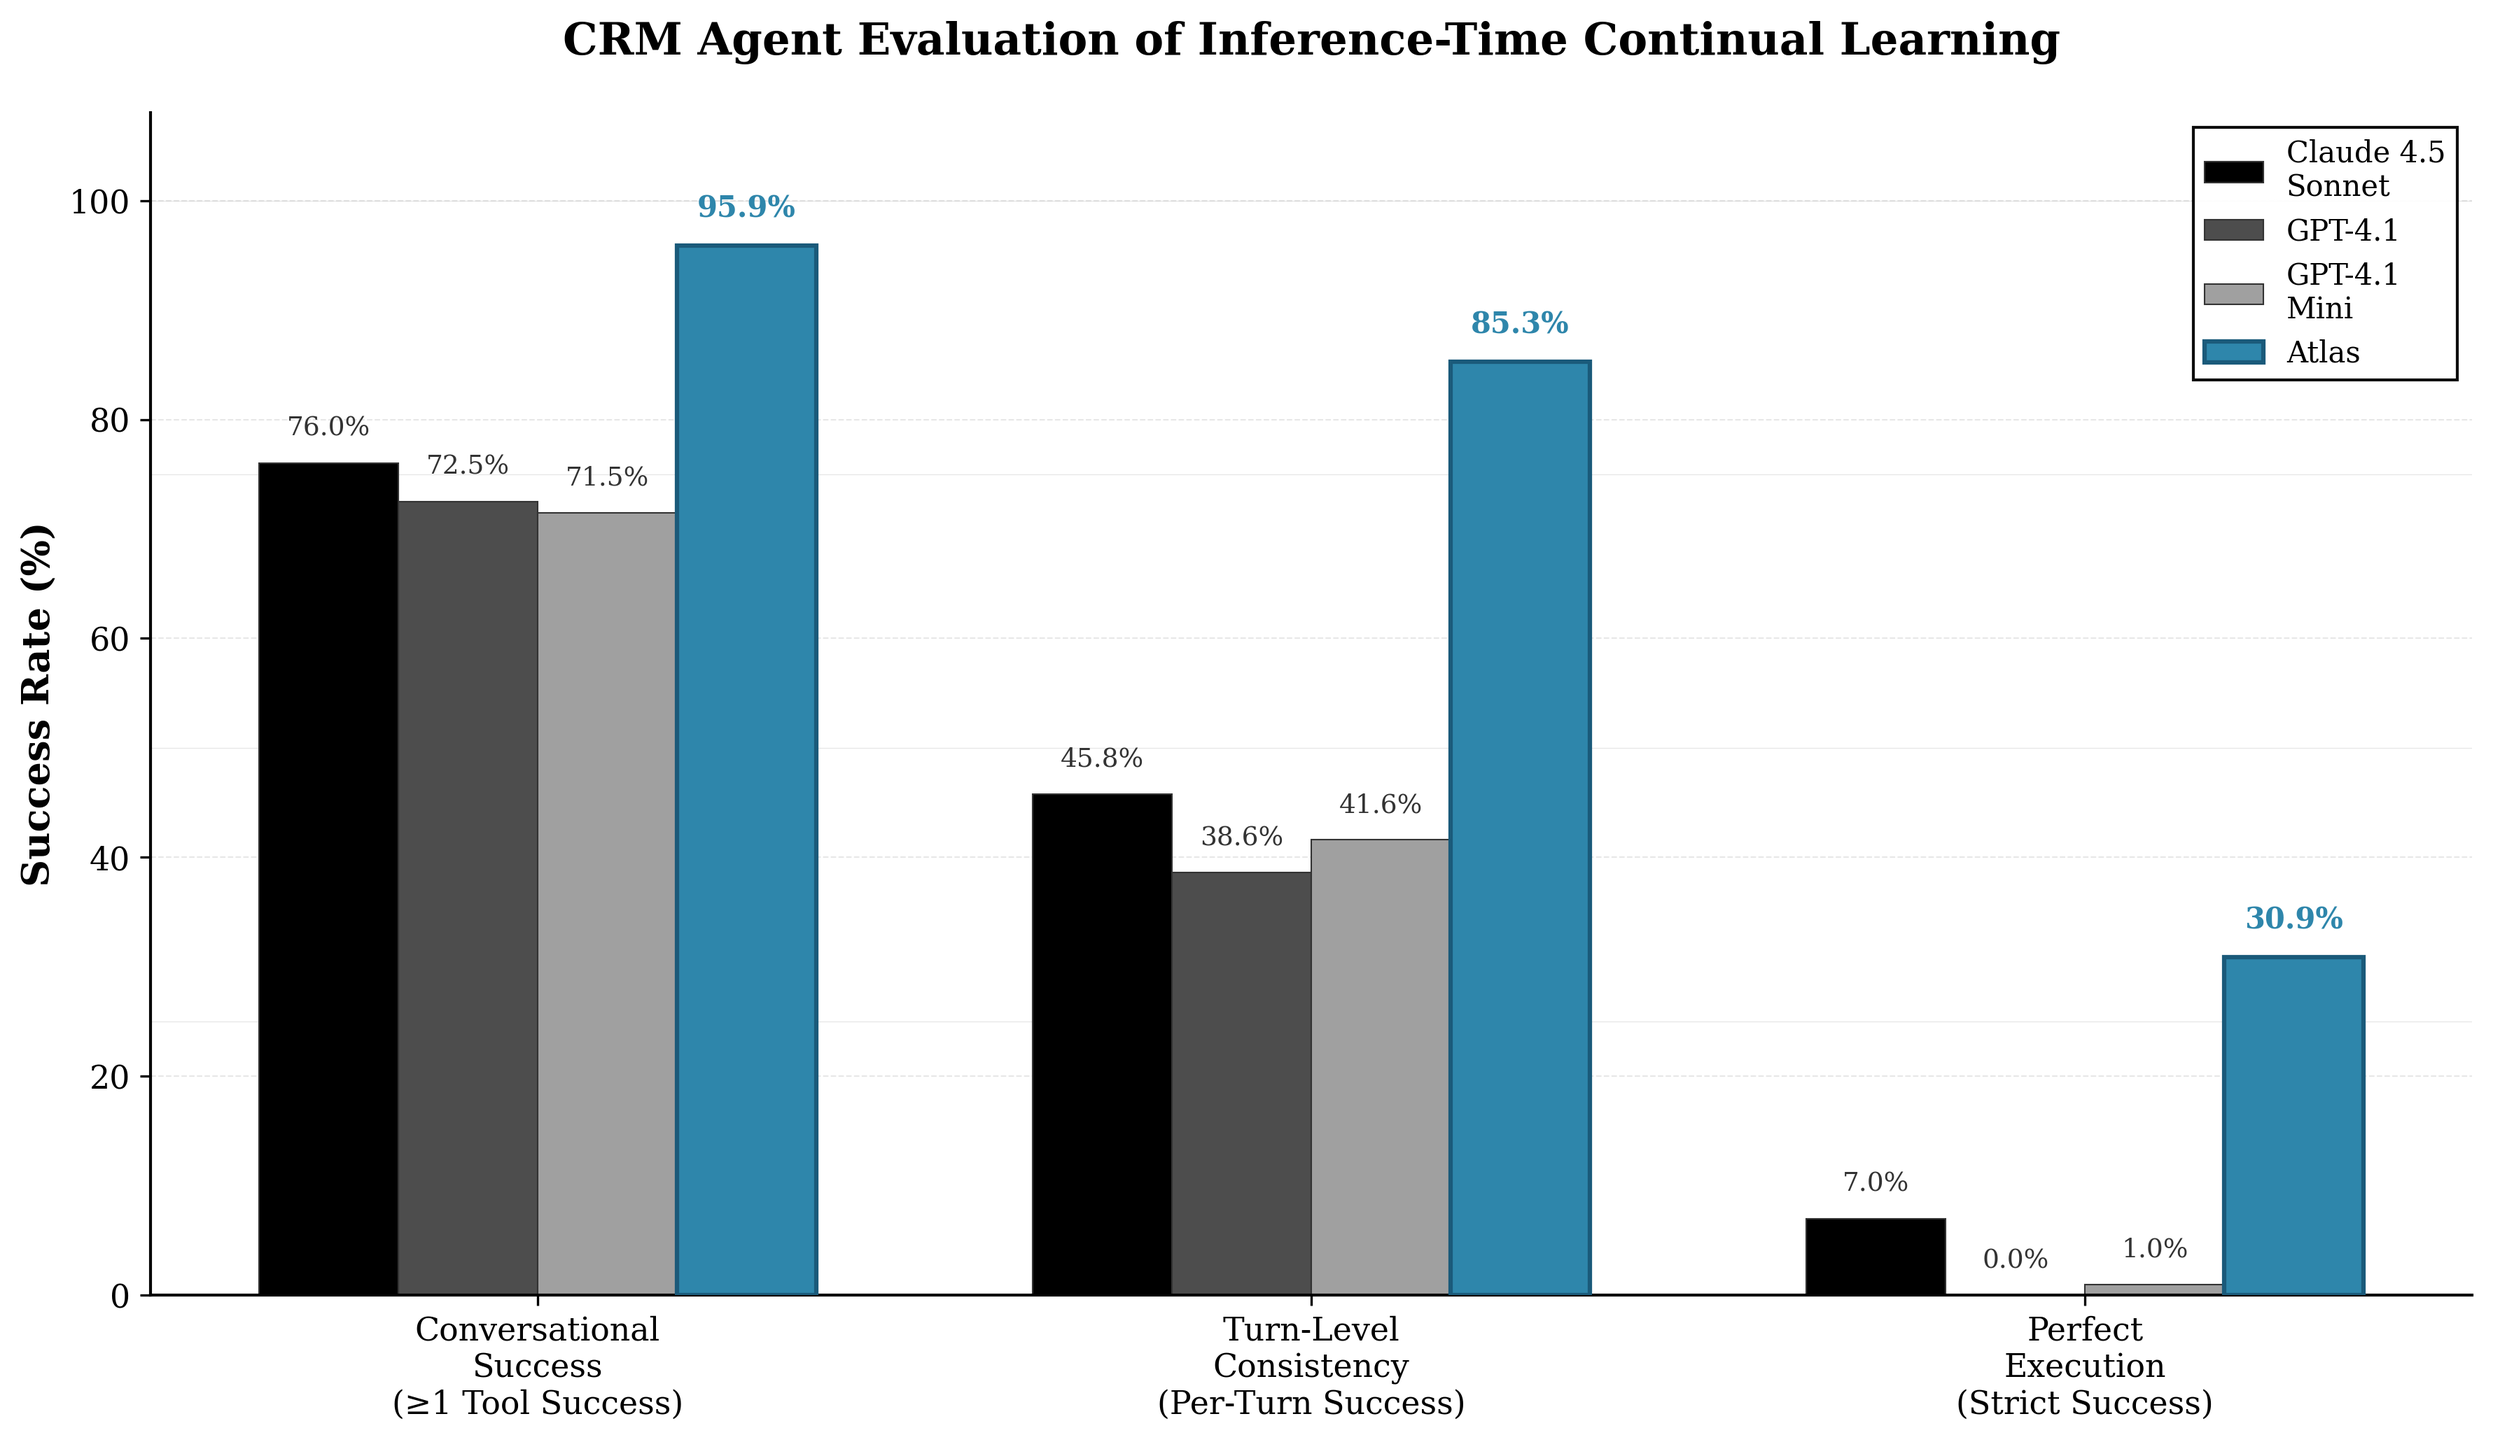
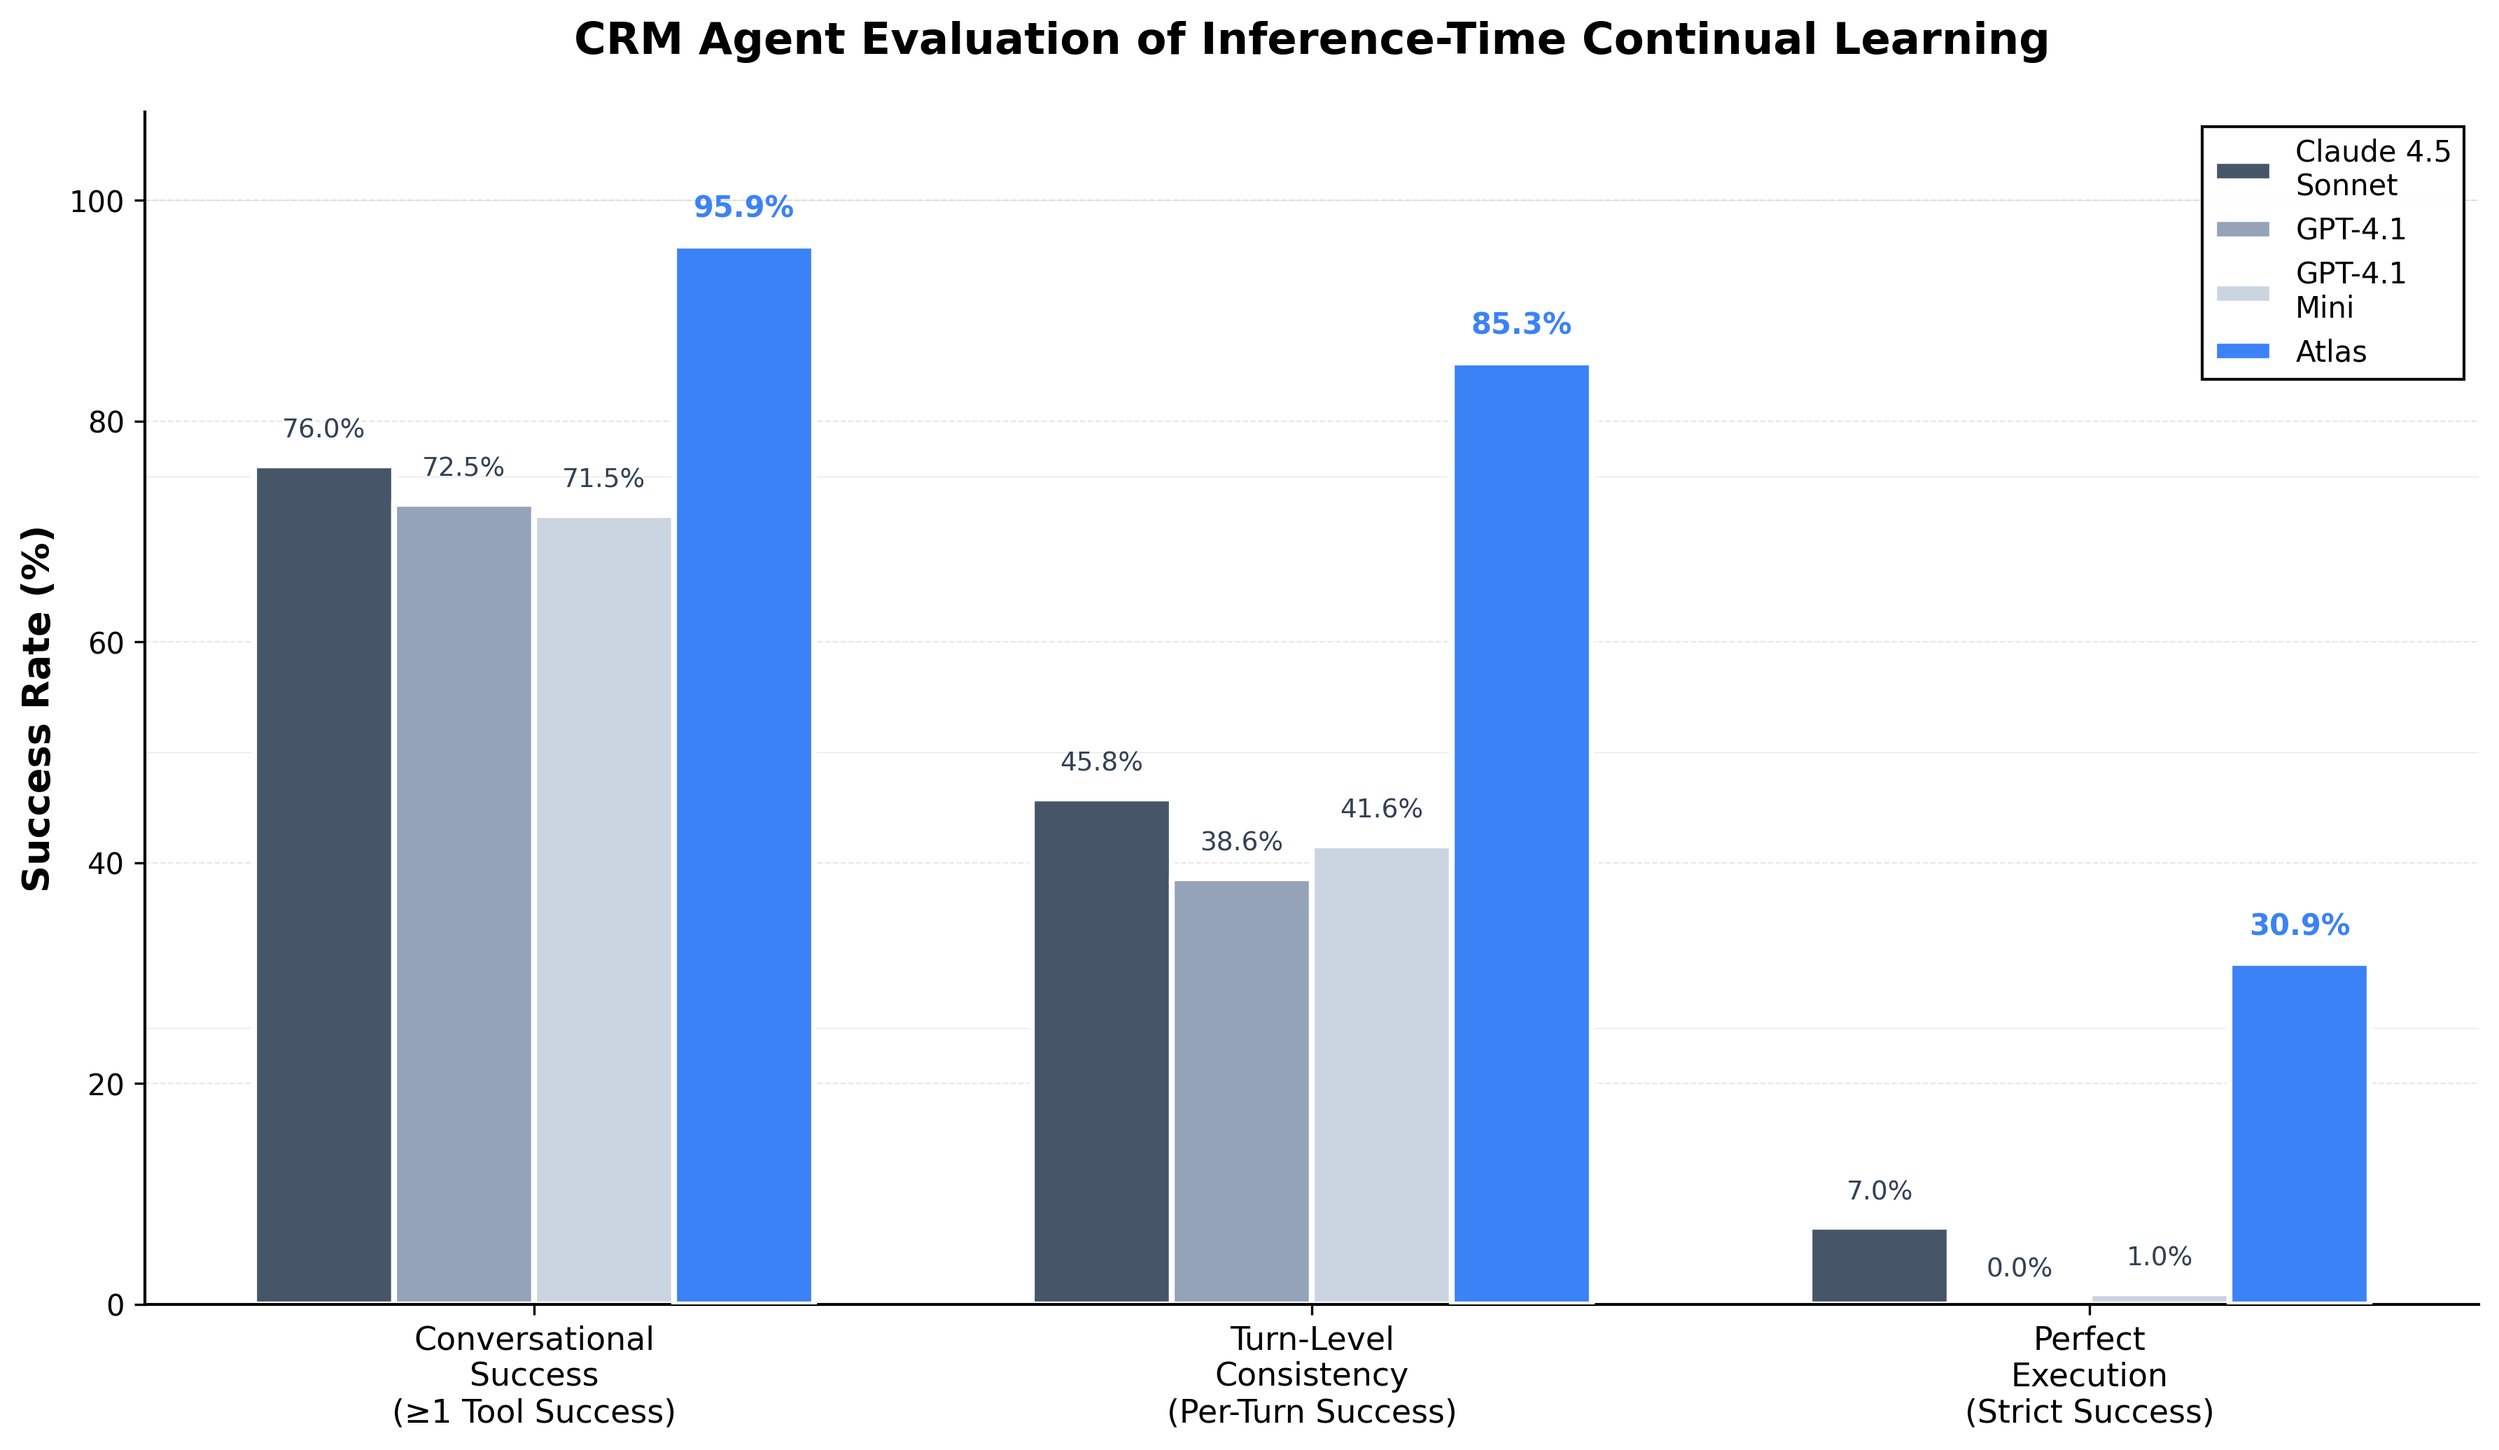
Update visualizations with consistent branding and token efficiency analysis
- Add token efficiency visualization showing cost per strict success comparison
- Update consistency gap bars with tiered gray gradient for baseline differentiation
- Improve visual consistency across all charts (Arc blue for Atlas, gray gradient for baselines)
- Remove percentage labels and comparison arrows per feedback for cleaner presentation
- Align fonts and styling across all visualizations for professional consistency

🤖 Generated with [Claude Code](https://claude.com/claude-code)

diff --git a/scripts/visualize_token_efficiency.py b/scripts/visualize_token_efficiency.py
@@ -1,0 +1,96 @@
+#!/usr/bin/env python3
+"""Generate token efficiency and cost reduction visualization for Reply presentation."""
+
+import matplotlib.pyplot as plt
+import numpy as np
+from pathlib import Path
+
+# Ensure output directory exists
+output_dir = Path(__file__).parent.parent / "artifacts" / "visualizations"
+output_dir.mkdir(parents=True, exist_ok=True)
+
+# Data from case study
+models = ["GPT-4.1 Mini", "Claude 4.5 Sonnet", "Atlas"]
+cost_per_strict_success = [0.46, 0.68, 0.15]
+tokens_per_strict_success = [884700, 162600, 96372]
+strict_success_rates = [1.0, 7.0, 30.9]
+
+# Color scheme: gradient of grays for baselines, Arc blue for Atlas
+colors = ['#cbd5e1', '#94a3b8', '#3b82f6']  # Light gray, medium gray, Arc blue
+
+# Create figure with two subplots side by side
+fig, (ax1, ax2) = plt.subplots(1, 2, figsize=(16, 6))
+fig.suptitle('Token Efficiency: Cost and Success Rate Analysis',
+             fontsize=16, fontweight='bold', y=0.98)
+
+# Left plot: Cost per Strict Success
+bars1 = ax1.barh(models, cost_per_strict_success, color=colors, edgecolor='white', linewidth=2)
+ax1.set_xlabel('Cost per Strict Success ($)', fontsize=12, fontweight='bold')
+ax1.set_title('Production Cost Efficiency', fontsize=14, fontweight='bold', pad=20)
+ax1.grid(axis='x', alpha=0.3, linestyle='--')
+ax1.set_axisbelow(True)
+
+# Add value labels
+for i, (bar, cost) in enumerate(zip(bars1, cost_per_strict_success)):
+    width = bar.get_width()
+    label = f'${cost:.2f}'
+    ax1.text(width + 0.02, bar.get_y() + bar.get_height()/2,
+             label, ha='left', va='center', fontweight='bold', fontsize=11)
+
+ax1.set_xlim(0, 0.8)
+
+# Right plot: Tokens per Strict Success (in thousands)
+tokens_in_k = [t / 1000 for t in tokens_per_strict_success]
+bars2 = ax2.barh(models, tokens_in_k, color=colors, edgecolor='white', linewidth=2)
+ax2.set_xlabel('Tokens per Strict Success (thousands)', fontsize=12, fontweight='bold')
+ax2.set_title('Token Efficiency', fontsize=14, fontweight='bold', pad=20)
+ax2.grid(axis='x', alpha=0.3, linestyle='--')
+ax2.set_axisbelow(True)
+
+# Add value labels
+for i, (bar, tokens_k) in enumerate(zip(bars2, tokens_in_k)):
+    width = bar.get_width()
+    label = f'{tokens_k:,.0f}k'
+    ax2.text(width + 10, bar.get_y() + bar.get_height()/2,
+             label, ha='left', va='center', fontweight='bold', fontsize=11)
+
+ax2.set_xlim(0, 1000)
+
+# Add footer with key insight
+fig.text(0.5, 0.02,
+         'Continual learning achieves production-grade reliability at significantly lower cost per successful outcome',
+         ha='center', fontsize=11, style='italic', color='#475569')
+
+plt.tight_layout(rect=[0, 0.04, 1, 0.96])
+plt.savefig(output_dir / "token_efficiency_cost_reduction.png", dpi=300, bbox_inches='tight')
+print(f"Saved visualization to {output_dir / 'token_efficiency_cost_reduction.png'}")
+
+# Create simplified single-panel version for presentation slide
+fig2, ax = plt.subplots(figsize=(10, 6))
+fig2.suptitle('Cost Efficiency: Strict Success (Perfect Execution)',
+             fontsize=16, fontweight='bold', y=0.96)
+
+bars = ax.barh(models, cost_per_strict_success, color=colors, edgecolor='white', linewidth=2)
+ax.set_xlabel('Cost per Strict Success ($)', fontsize=13, fontweight='bold')
+ax.grid(axis='x', alpha=0.3, linestyle='--')
+ax.set_axisbelow(True)
+
+# Add value labels
+for i, (bar, cost) in enumerate(zip(bars, cost_per_strict_success)):
+    width = bar.get_width()
+    label = f'${cost:.2f}'
+    ax.text(width + 0.02, bar.get_y() + bar.get_height()/2,
+            label, ha='left', va='center', fontweight='bold', fontsize=12)
+
+ax.set_xlim(0, 0.8)
+ax.set_ylim(-0.6, 2.6)
+
+# Add footer
+fig2.text(0.5, 0.03,
+         'Inference-time continual learning achieves production-grade reliability at significantly lower cost',
+         ha='center', fontsize=11, style='italic', color='#475569')
+
+plt.tight_layout(rect=[0, 0.06, 1, 0.94])
+plt.savefig(output_dir / "token_efficiency_presentation_slide.png", dpi=300, bbox_inches='tight')
+print(f"Saved presentation slide to {output_dir / 'token_efficiency_presentation_slide.png'}")
+print(f"\n✓ Token efficiency visualizations generated successfully!")

diff --git a/scripts/visualize_consistency_gap_bars.py b/scripts/visualize_consistency_gap_bars.py
@@ -1,34 +1,20 @@
 #!/usr/bin/env python3
 """
 Generate Diagram 1: Consistency Gap Bridge (Grouped Bar Chart)
-Academic-quality visualization showing baseline capability vs Atlas's bridging of the consistency gap
+Visualization showing baseline capability vs Atlas's bridging of the consistency gap
 """
 
 import matplotlib.pyplot as plt
 import numpy as np
 from pathlib import Path
 
-# Publication-quality settings
-plt.rcParams.update({
-    'font.family': 'serif',
-    'font.serif': ['Times New Roman', 'DejaVu Serif'],
-    'font.size': 11,
-    'axes.labelsize': 12,
-    'axes.titlesize': 13,
-    'xtick.labelsize': 11,
-    'ytick.labelsize': 11,
-    'legend.fontsize': 10,
-    'figure.titlesize': 14,
-    'figure.dpi': 300,
-    'savefig.dpi': 300,
-    'savefig.bbox': 'tight',
-    'axes.linewidth': 1.0,
-    'grid.linewidth': 0.5,
-})
+# Ensure output directory exists
+output_dir = Path('artifacts/visualizations')
+output_dir.mkdir(parents=True, exist_ok=True)
 
 # Data from reply-case-study.md (194/400 conversations, 48.5% complete)
 models = ['Claude 4.5\nSonnet', 'GPT-4.1', 'GPT-4.1\nMini', 'Atlas']
-colors = ['#000000', '#4D4D4D', '#A0A0A0', '#2E86AB']  # Black, Dark Grey, Light Grey, Blue
+colors = ['#475569', '#94a3b8', '#cbd5e1', '#3b82f6']  # Dark gray, medium gray, light gray, Arc blue
 
 # Three metrics (groups)
 capability_data = [76.0, 72.5, 71.5, 95.9]  # Conversations w/ ≥1 tool success
@@ -52,12 +38,12 @@ for i, (model, color) in enumerate(zip(models, colors)):
 
     # Determine bar properties
     if model == 'Atlas':
-        edgecolor = '#1a5a7a'  # Darker blue for subtle border
-        linewidth = 1.5
+        edgecolor = 'white'  # White border for clean look
+        linewidth = 2
         alpha = 1.0
     else:
-        edgecolor = '#333333'
-        linewidth = 0.5
+        edgecolor = 'white'
+        linewidth = 2
         alpha = 1.0
 
     bars = ax.bar(
@@ -82,6 +68,9 @@ for i, (model, color) in enumerate(zip(models, colors)):
         else:  # Bar has zero height - show label at baseline
             label_y = 2
 
+        # Match text color to bar color for visual consistency
+        text_color = color if model == 'Atlas' else '#334155'  # Use darker gray for text readability
+
         ax.text(
             bar.get_x() + bar.get_width() / 2,
             label_y,
@@ -90,7 +79,7 @@ for i, (model, color) in enumerate(zip(models, colors)):
             va='bottom',
             fontsize=fontsize,
             fontweight=fontweight,
-            color=color if model == 'Atlas' else '#333333'
+            color=text_color
         )
 
 # Styling
@@ -140,10 +129,6 @@ ax.spines['bottom'].set_linewidth(1.0)
 
 # Tight layout
 plt.tight_layout()
-
-# Save outputs
-output_dir = Path('artifacts/visualizations')
-output_dir.mkdir(parents=True, exist_ok=True)
 
 # Save as SVG (vector, for papers)
 svg_path = output_dir / 'consistency_gap_bridge_bars.svg'
